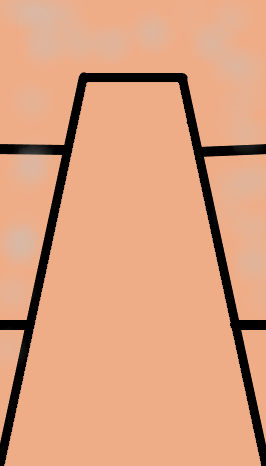
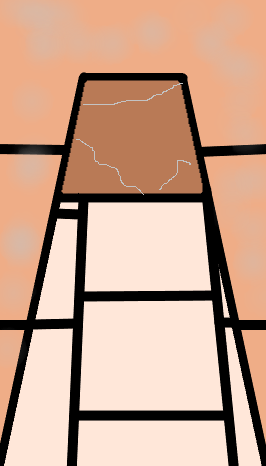
Added floor tiles
Added images for floor tiles and drawing for them

Added image for open door to show next room's floor perspective

diff --git a/src/renderer/Renderer.java b/src/renderer/Renderer.java
@@ -26,7 +26,7 @@ public class Renderer extends Canvas implements Observer {
    *             looking at
    */
   public void redraw(ViewDescriptor view) {
-    //System.out.println("Drawing");
+    // System.out.println("Drawing");
     if (view == null) {
       return;
     }
@@ -51,21 +51,21 @@ public class Renderer extends Canvas implements Observer {
       i++;
     }
     for (double x = 0; x < getWidth(); x += getWidth() / 3) {
-      switch (visibleTiles.get(i)) {
-        case "something":
-          break;
-        default:
-          gc.setFill(Color.BLANCHEDALMOND);
-          gc.fillRect(x, getHeight() * 2 / 3, getWidth() / 3, getHeight() / 3);
-          break;
-      }
-      i++;
+      Image floor = new Image(getClass().getResourceAsStream("images/floor.png"));
+      gc.setFill(Color.BLANCHEDALMOND);
+      gc.drawImage(floor, x, getHeight() * 2 / 3, getWidth() / 3, getHeight() / 3);
     }
+    
+    gc.setFill(Color.BLACK);
+    gc.setLineWidth(3);
+    gc.strokeLine(0, getHeight() * 2 / 3 + 1, getWidth(), getHeight() * 2 / 3 + 1);
+    
+    //TODO: Draw items
   }
 
   @Override
   public void update(Observable arg0, Object arg1) {
-    // *********OBSERVER PATTERN*********
+    // *********OBSERVER PATTERN********* //
     if (arg0.getClass().equals(GameWorld.class) && arg1 instanceof ViewDescriptor) {
       redraw((ViewDescriptor) arg1);
     }
